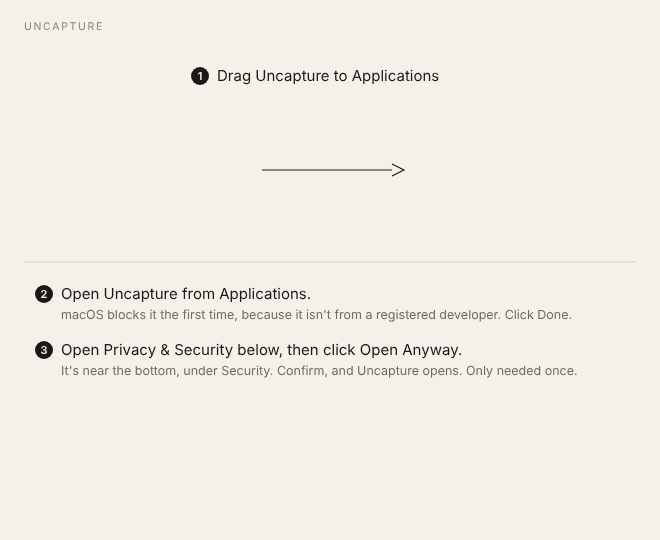
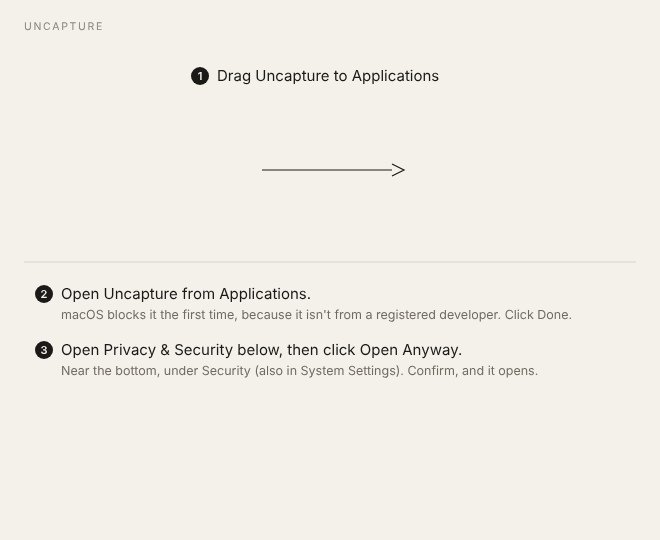
The .dmg links to the Privacy & Security pane itself (the .webloc didn't open)
A .webloc holding the x-apple.systempreferences URL didn't open from the
.dmg. The window's 'Privacy & Security' item is now a symlink to
/System/Library/PreferencePanes/Security.prefPane, which Finder opens in
System Settings, the way the Applications link opens that folder. The
background also says the pane is in System Settings. CI checks the pane
exists on the runner's macOS and that the .dmg's link points to it.

Claude-Session: https://claude.ai/code/session_01YCbY5Lsdj8V8eCGU8qFgc5

Changed region(s): [[0.0909, 0.6815, 0.8788, 0.7111]]

diff --git a/TESTING.md b/TESTING.md
@@ -13,10 +13,11 @@ first section before relying on it.
 Build from source (`npm ci && npm run app`) or open the `.dmg` from CI.
 
 - [ ] **The .dmg window** shows the three steps on its background, Uncapture
-      and the Applications link side by side, and the "Open Privacy &
+      and the Applications link side by side, and the "Privacy &
       Security" shortcut below, all labels readable and nothing cut off.
 - [ ] **Blocked, then allowed.** After dragging to Applications, opening
-      Uncapture is blocked. The shortcut opens System Settings at Privacy &
+      Uncapture is blocked. Double-clicking "Privacy & Security" in the .dmg
+      opens System Settings at Privacy &
       Security, where "Open Anyway" is listed for Uncapture. If the shortcut
       opens the wrong page (or nothing), note the macOS version: ______
 

diff --git a/README.md b/README.md
@@ -88,9 +88,10 @@ shows the three steps:
 1. Drag Uncapture to Applications.
 2. Open it. The app isn't signed with an Apple Developer ID, so the first
    time macOS blocks it; click Done.
-3. Open the **Open Privacy & Security** shortcut in the same window, click
-   **Open Anyway** next to Uncapture (near the bottom, under Security), and
-   confirm. That's needed once per version.
+3. Open the **Privacy & Security** link in the same window (or System
+   Settings → Privacy & Security), click **Open Anyway** next to Uncapture
+   (near the bottom, under Security), and confirm. That's needed once per
+   version.
 
 Uncapture asks for access to Photos when I press the button on its first
 screen. **macOS asks again after each update**: the permission belongs to the

diff --git a/CLAUDE.md b/CLAUDE.md
@@ -21,7 +21,9 @@ npm run dist           # the .app, then the .dmg via scripts/make-dmg.sh (macOS,
 
 The .dmg's background (`src-tauri/dmg/background.svg`, rendered to
 `background.png` and `@2x`) shows the first-run steps; icon positions in it
-must match `scripts/make-dmg.sh`.
+must match `scripts/make-dmg.sh`. Its "Privacy & Security" item is a symlink to
+`/System/Library/PreferencePanes/Security.prefPane` (a `.webloc` with a
+settings URL didn't open).
 
 Re-clustering speed (100,000 assets under 100 ms) is asserted only in a
 release build: `cargo test --release --no-default-features`.
